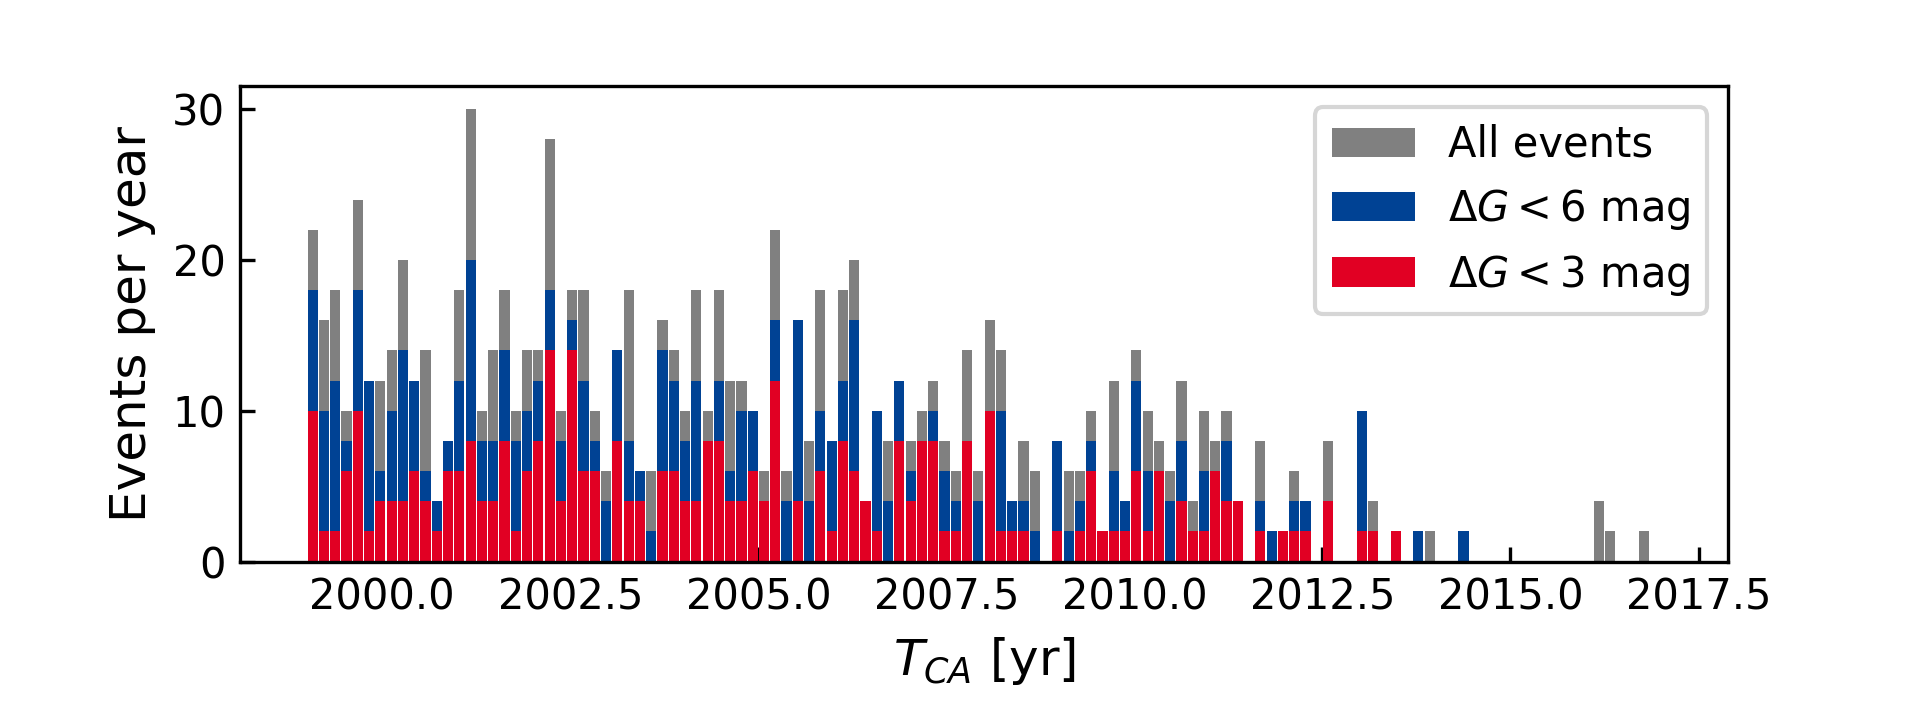
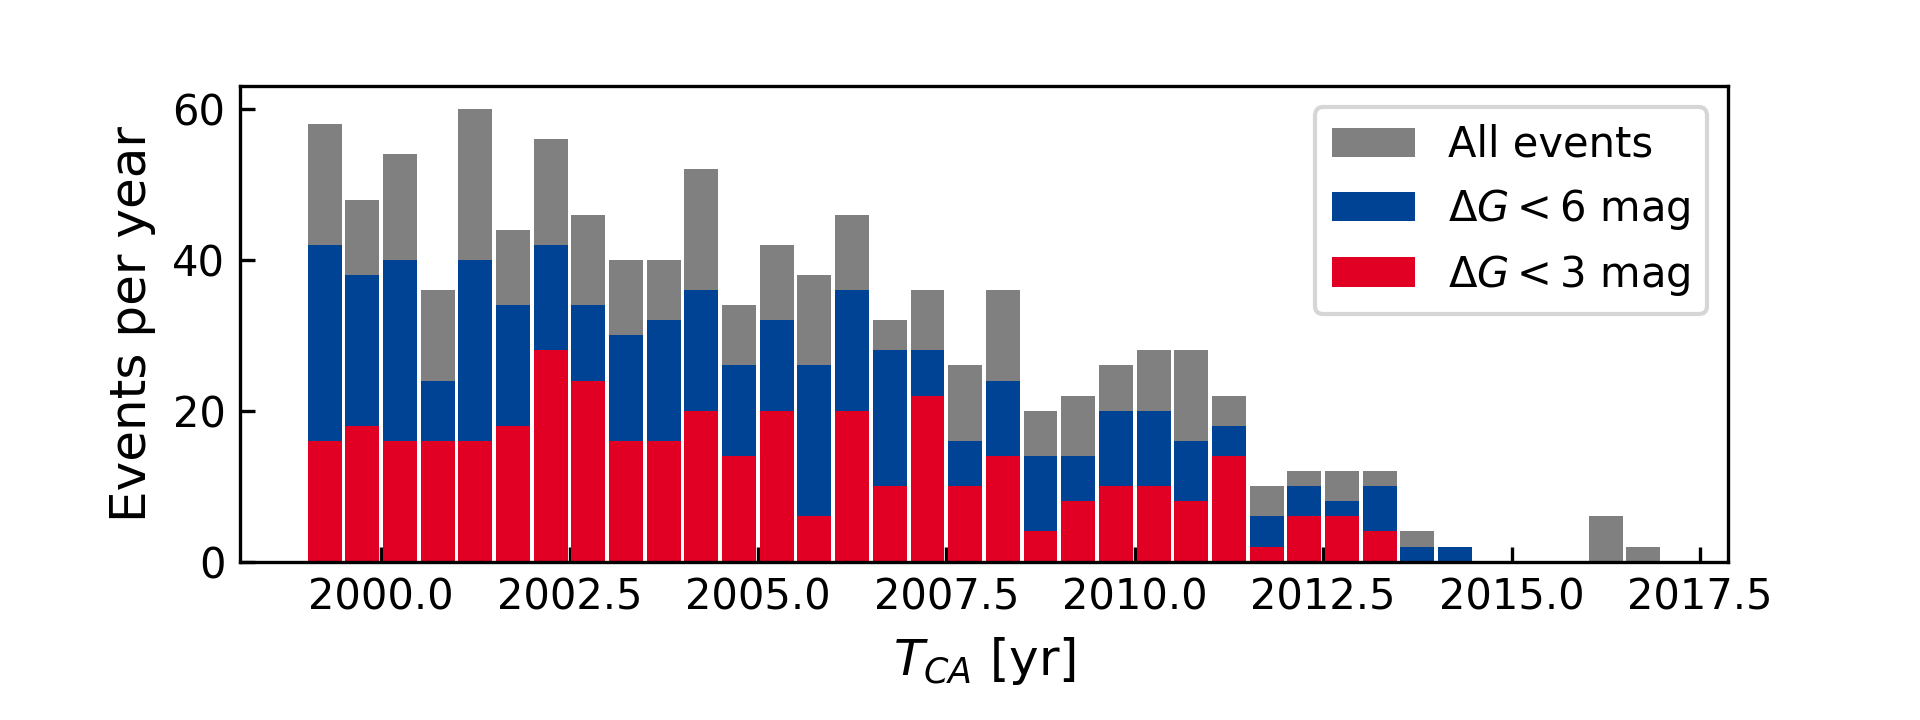
new plots

diff --git a/src/plot_functions.py b/src/plot_functions.py
@@ -571,7 +571,7 @@ def plot_psi_result_part_2(BGS,result,blacklist, filtered):
 
 def plot_results(result):
 	for typ in ['All','WD','RG','MS','BD']:
-		for timerange in [[setup.year_initial,setup.year_final],[setup.year_initial+4,setup.year_initial+22]]:
+		for timerange in [[setup.year_initial,setup.year_final],[1999, 2017]]:
 			for mag_dif in [20,6,3]:
 				if mag_dif == 20 : add =''
 				else: add = '_DG_'+str(mag_dif)
@@ -659,7 +659,7 @@ def plot_results(result):
 					plt.subplots_adjust(\
 							bottom = plt.rcParams['figure.subplot.bottom']*2)
 					plt.hist(result['TCA'][which], color = c, range= timerange,
-						bins = (2055-1995)*2,rwidth = 0.9,
+						bins = (timerange[1]-timerange[0])*2,rwidth = 0.9,
 						zorder = z, weights = np.ones(len(result[which]))*2,
 						label = label)
 				leg = plt.legend()
